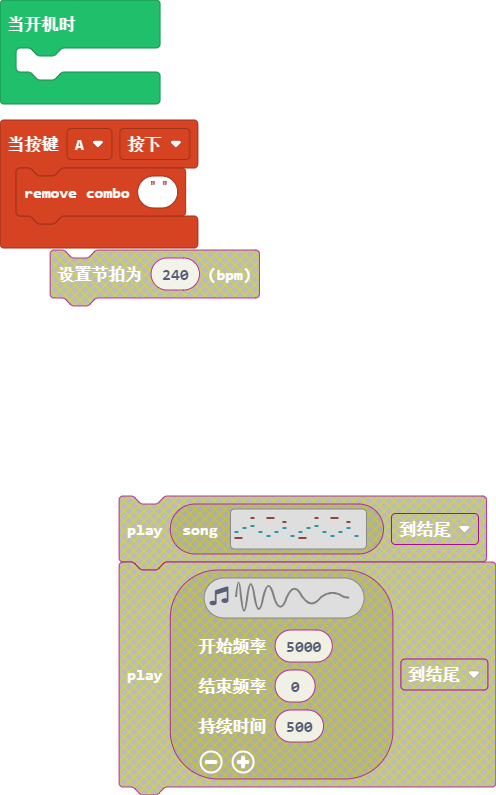
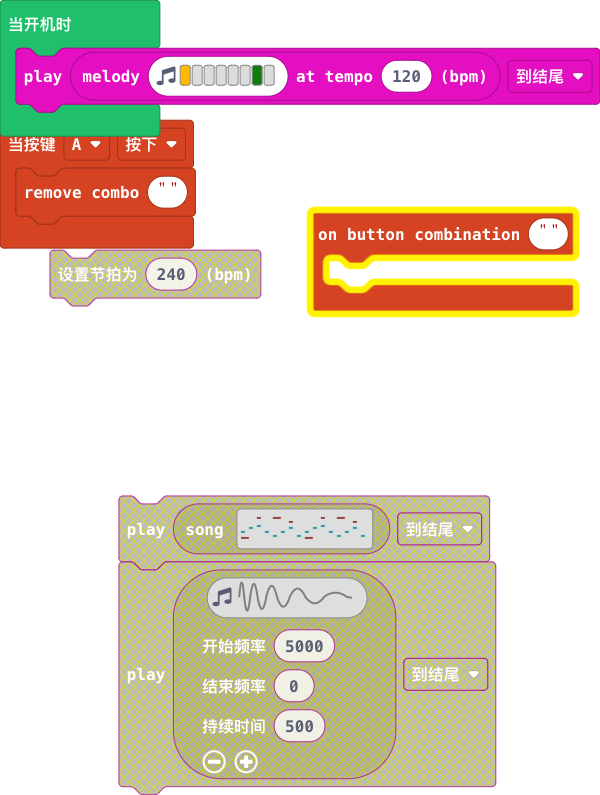
更新 main.blocks, main.ts

diff --git a/main.ts b/main.ts
@@ -1,3 +1,7 @@
+controller.combos.attachCombo("", function () {
+	
+})
 controller.A.onEvent(ControllerButtonEvent.Pressed, function () {
     controller.combos.detachCombo("")
 })
+music.play(music.stringPlayable("A - - - - - G - ", 120), music.PlaybackMode.UntilDone)
